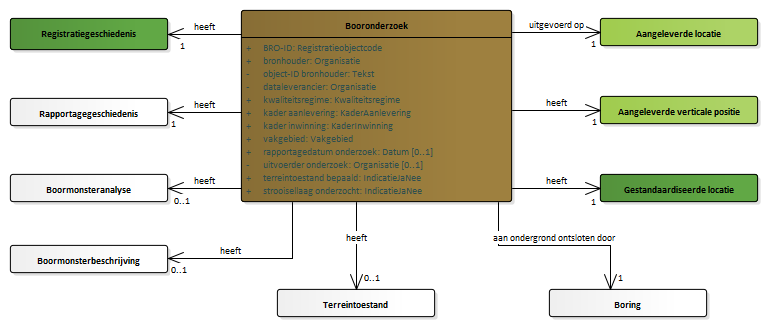
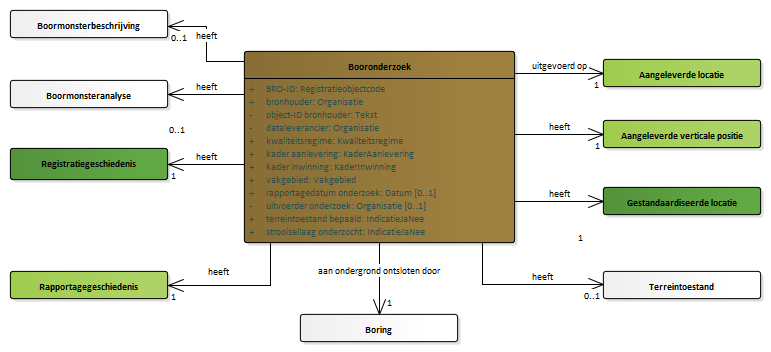
Conceptualmodel-BHR-Pconceptueel-MIM-1.9127november2019-1-20200214-20200304-094112

diff --git a/data/BHR-P-cat.msword.html b/data/BHR-P-cat.msword.html
@@ -13,7 +13,7 @@
    <body>
       <p>Conceptual model/BHR-P conceptueel - MIM/20200214</p>
       <p>Imvertor: 1.59.2</p>
-      <p>Model release: Conceptualmodel-BHR-Pconceptueel-MIM-1.9127november2019-1-20200214-20200304-092433</p>
+      <p>Model release: Conceptualmodel-BHR-Pconceptueel-MIM-1.9127november2019-1-20200214-20200304-094112</p>
       <hr>
       <section>
          <h1>Artikel 1 Definitie van registratieobject, entiteiten en attributen</h1>
@@ -121,16 +121,16 @@
             <section id=""><a class="anchor" id="graph_EAID_767F438F_1014_47bc_BBDC_98606932693D"></a><a class="anchor" id="global_class_ModelBHRPDeel2_Booronderzoek"></a><section id="global_class_ModelBHRPDeel2_Booronderzoek">
                   <h3>   Booronderzoek</h3>
                   <div class="imageinfo "><img src="Images/EAID_8A487999_3FB5_47ed_9933_B593203BF109.png" usemap="#imagemap-EAID_8A487999_3FB5_47ed_9933_B593203BF109" alt="Diagram "><map name="imagemap-EAID_8A487999_3FB5_47ed_9933_B593203BF109">
-                        <area shape="rect" alt="Boormonsteranalyse" coords="10,174,168,202" href="#graph_EAID_C497D0C8_A7FC_4280_82C3_3C866CAA23AB">
-                        <area shape="rect" alt="Boormonsterbeschrijving" coords="10,245,168,273" href="#graph_EAID_697C344A_A1CE_4e19_A1E8_D608CAB8F0B2">
-                        <area shape="rect" alt="Terreintoestand" coords="277,289,435,317" href="#graph_EAID_AF1FFED2_C283_48d3_BB6D_22F3F876045D">
-                        <area shape="rect" alt="Boring" coords="549,289,707,317" href="#graph_EAID_EEB4A074_34DE_4020_8995_D8081DCBBB6C">
-                        <area shape="rect" alt="Gestandaardiseerde locatie" coords="600,174,758,202" href="#graph_EAID_4D17BE34_0DFD_4a20_9A39_F437E781D80F">
-                        <area shape="rect" alt="Aangeleverde verticale positie" coords="600,96,758,124" href="#graph_EAID_5B6EEAEE_FAAF_4ab9_9D33_709559A9E297">
-                        <area shape="rect" alt="Aangeleverde locatie" coords="600,18,758,46" href="#graph_EAID_C81072B6_E99D_435f_9E4C_B1D5FED530D4">
-                        <area shape="rect" alt="Rapportagegeschiedenis" coords="10,98,168,126" href="#graph_EAID_6C31CE0B_20BC_4ca1_9BFA_C6D0EF8B7476">
-                        <area shape="rect" alt="Registratiegeschiedenis" coords="10,18,168,50" href="#graph_EAID_8505883D_9F95_4151_9381_E70B2B7F19DE">
-                        <area shape="rect" alt="Booronderzoek" coords="241,10,512,202" href="#graph_EAID_767F438F_1014_47bc_BBDC_98606932693D"></map><p><b></b></p>
+                        <area shape="rect" alt="Boormonsteranalyse" coords="10,80,168,108" href="#graph_EAID_C497D0C8_A7FC_4280_82C3_3C866CAA23AB">
+                        <area shape="rect" alt="Boormonsterbeschrijving" coords="10,10,168,38" href="#graph_EAID_697C344A_A1CE_4e19_A1E8_D608CAB8F0B2">
+                        <area shape="rect" alt="Terreintoestand" coords="603,271,761,299" href="#graph_EAID_AF1FFED2_C283_48d3_BB6D_22F3F876045D">
+                        <area shape="rect" alt="Boring" coords="300,314,458,342" href="#graph_EAID_EEB4A074_34DE_4020_8995_D8081DCBBB6C">
+                        <area shape="rect" alt="Gestandaardiseerde locatie" coords="603,187,761,215" href="#graph_EAID_4D17BE34_0DFD_4a20_9A39_F437E781D80F">
+                        <area shape="rect" alt="Aangeleverde verticale positie" coords="603,120,761,148" href="#graph_EAID_5B6EEAEE_FAAF_4ab9_9D33_709559A9E297">
+                        <area shape="rect" alt="Aangeleverde locatie" coords="603,59,761,87" href="#graph_EAID_C81072B6_E99D_435f_9E4C_B1D5FED530D4">
+                        <area shape="rect" alt="Rapportagegeschiedenis" coords="10,271,168,299" href="#graph_EAID_6C31CE0B_20BC_4ca1_9BFA_C6D0EF8B7476">
+                        <area shape="rect" alt="Registratiegeschiedenis" coords="10,148,168,180" href="#graph_EAID_8505883D_9F95_4151_9381_E70B2B7F19DE">
+                        <area shape="rect" alt="Booronderzoek" coords="244,51,515,243" href="#graph_EAID_767F438F_1014_47bc_BBDC_98606932693D"></map><p><b></b></p>
                   </div>
                   <table style="width: 100%;">
                      <colgroup style="width: 30%;"></colgroup>
@@ -17809,31 +17809,60 @@
                      <td>grind</td>
                      <td>✔</td>
                      <td>✔</td>
-                     <td></td>
+                     <td>
+                        
+                        <p>Grind, grindgehalte =&amp;gt; 30%.</p>
+                        
+                     </td>
                   </tr>
                   <tr>
                      <td>kleiarmSilt</td>
                      <td>✔</td>
                      <td>✔</td>
-                     <td></td>
+                     <td>
+                        
+                        <p>Kleiarm silt, naam gebaseerd op de kleidriehoek. Lutumgehalte vanaf 0% tot 5% en leemgehalte
+                           (lutumgehalte + siltgehalte) =&amp;gt; 50%.
+                        </p>
+                        
+                     </td>
                   </tr>
                   <tr>
                      <td>kleiarmZand</td>
                      <td>✔</td>
                      <td>✔</td>
-                     <td></td>
+                     <td>
+                        
+                        <p>Kleiarm zand, naam gebaseerd op de kleidriehoek. Lutumgehalte vanaf 0% tot 5% en leemgehalte
+                           (lutumgehalte + siltgehalte) &amp;lt; 50%.
+                        </p>
+                        
+                     </td>
                   </tr>
                   <tr>
                      <td>kleiigSilt</td>
                      <td>✔</td>
                      <td>✔</td>
-                     <td></td>
+                     <td>
+                        
+                        <p>Kleiig silt, naam gebaseerd op de kleidriehoek. Lutumgehalte vanaf 5% tot 8% en leemgehalte
+                           (lutumgehalte + siltgehalte) =&amp;gt; 50%.
+                        </p>
+                        
+                     </td>
                   </tr>
                   <tr>
                      <td>kleiigVeen</td>
                      <td>✔</td>
                      <td>✔</td>
-                     <td></td>
+                     <td>
+                        
+                        <p>Kleiig veen, naam gebaseerd op de veendriehoek. Organische stofgehalte vanaf 22,5%
+                           tot 35% en combinatie lutumgehalte en organische stofgehalte voldoen aan eisen (functie)
+                           van veendriehoek.
+                        </p>
+                        
+                     </td>
                   </tr>
                   <tr>
                      <td>kleiigZand</td>
